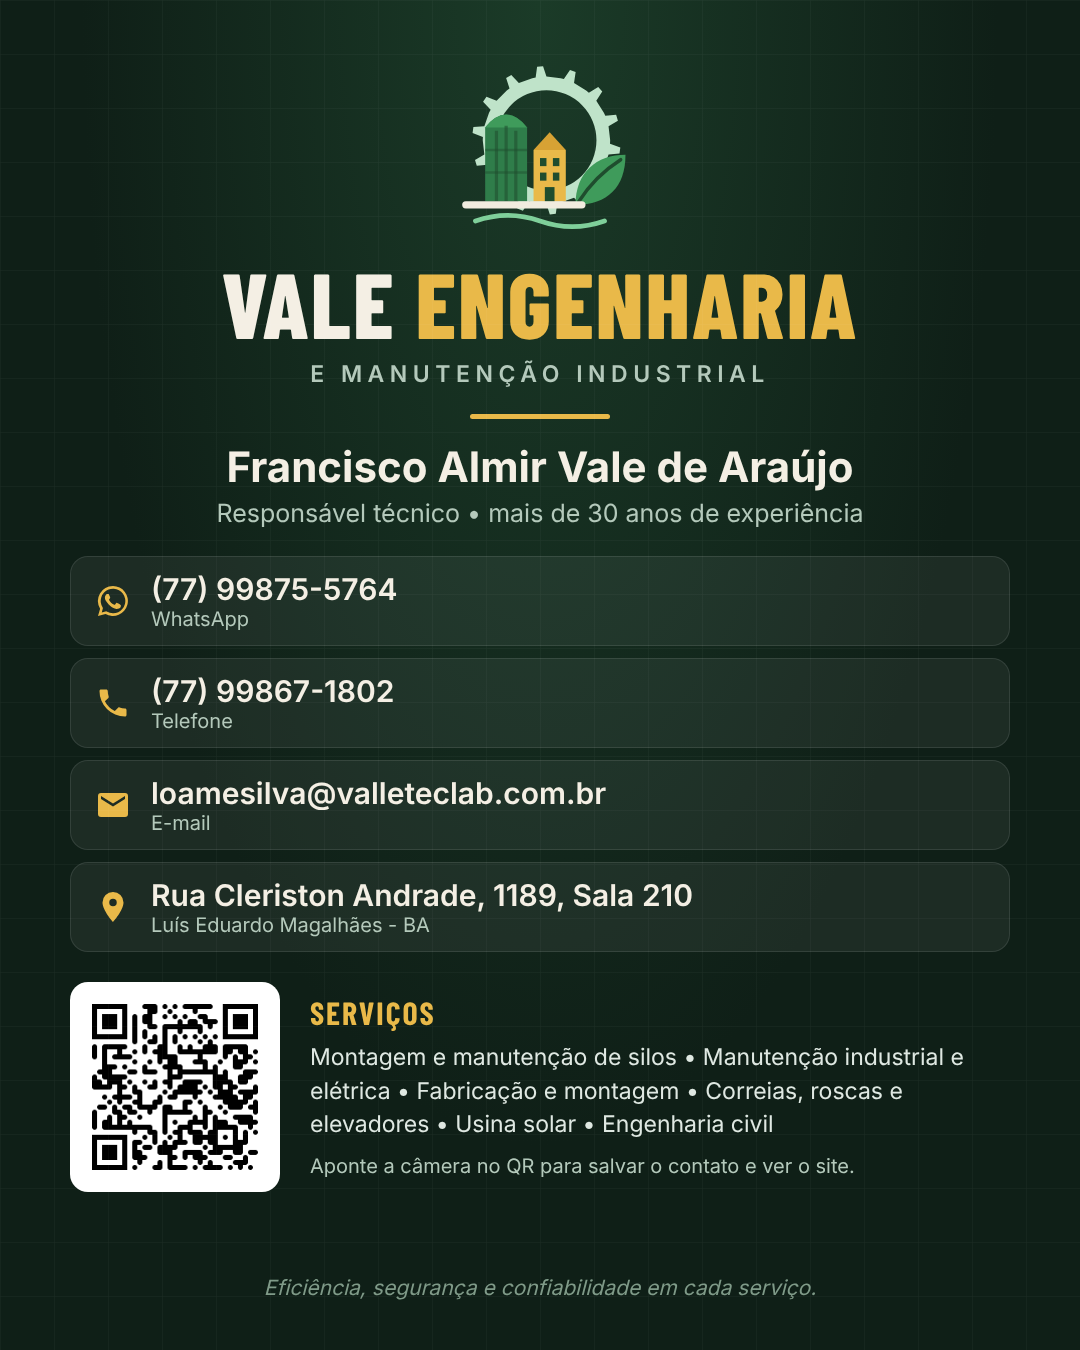
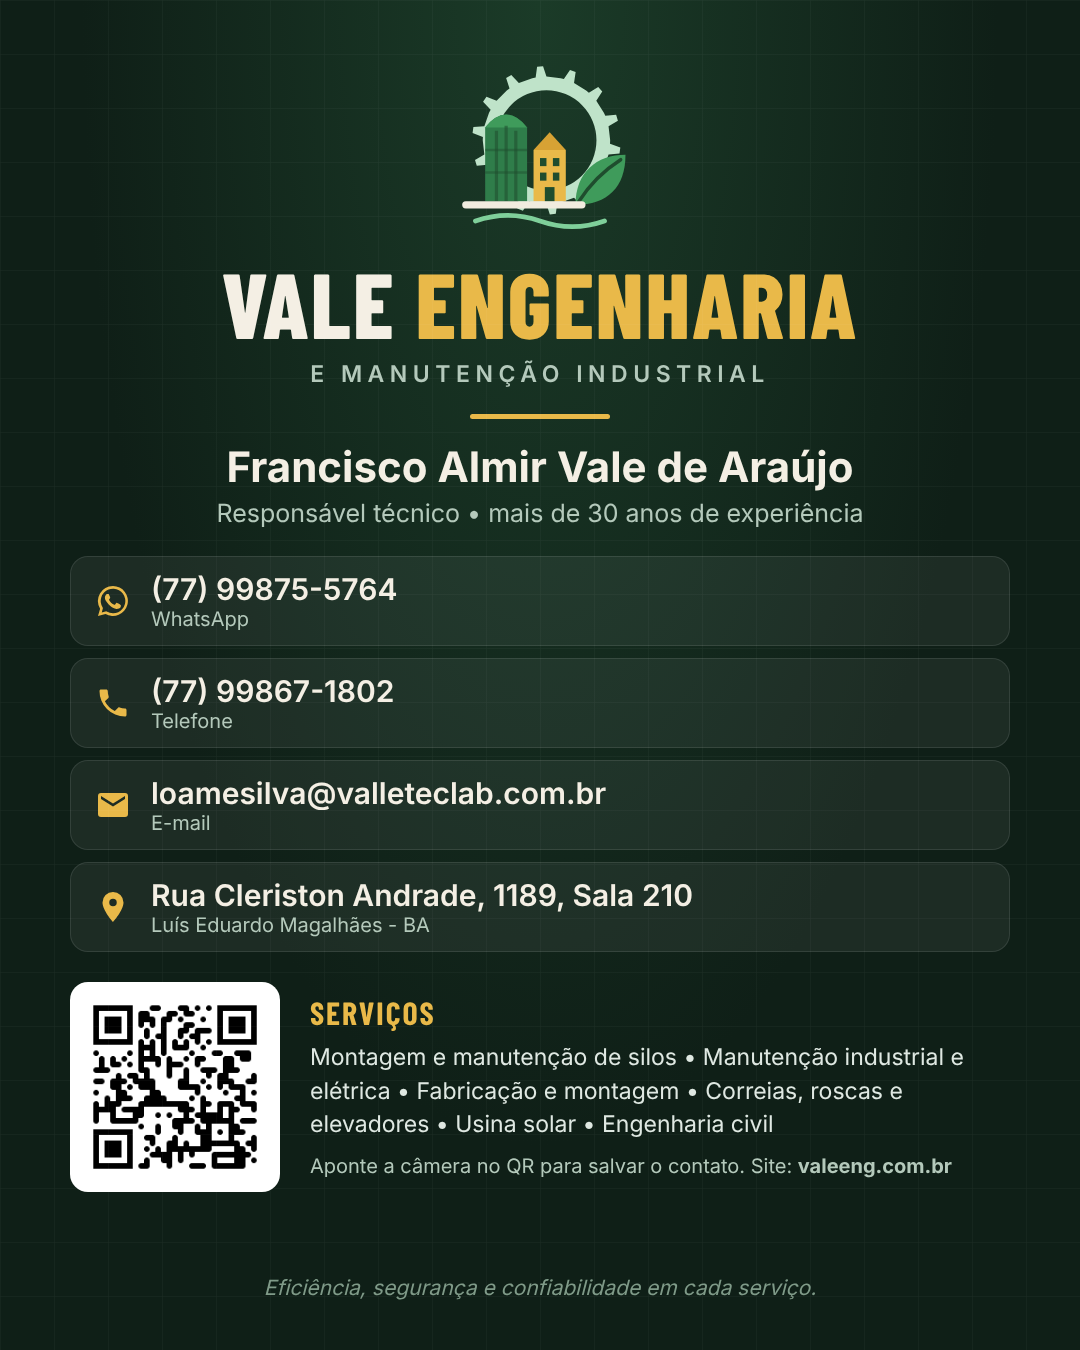
Aponta links, prévia de compartilhamento e QR code para valeeng.com.br
Claude-Session: https://claude.ai/code/session_01L9SrSHLbwCuzMQcZKSVsk7

Changed region(s): [[0.0611, 0.7467, 0.2444, 0.8711], [0.7028, 0.84, 0.8861, 0.8711]]

diff --git a/cartao.html b/cartao.html
@@ -8,8 +8,9 @@
   <meta property="og:title" content="Vale Engenharia | Cartão digital">
   <meta property="og:description" content="Francisco Almir Vale de Araújo. Montagem de silos, manutenção industrial e elétrica e engenharia para o agro. Toque para salvar o contato.">
   <meta property="og:type" content="profile">
-  <meta property="og:image" content="https://site-production-16ce.up.railway.app/assets/brand/cartao-vale-engenharia-og.png">
-  <meta property="og:url" content="https://site-production-16ce.up.railway.app/cartao.html">
+  <meta property="og:image" content="https://valeeng.com.br/assets/brand/cartao-vale-engenharia-og.png">
+  <meta property="og:url" content="https://valeeng.com.br/cartao.html">
+  <link rel="canonical" href="https://valeeng.com.br/cartao.html">
   <meta name="theme-color" content="#1f4d2e">
   <link rel="icon" href="assets/img/favicon.svg" type="image/svg+xml">
   <link rel="icon" href="assets/img/favicon-32.png" sizes="32x32" type="image/png">
@@ -95,7 +96,7 @@
 
     <div class="share">
       <button type="button" id="btnShare">Compartilhar cartão</button>
-      <a href="https://wa.me/?text=Cart%C3%A3o%20digital%20Vale%20Engenharia%20e%20Manuten%C3%A7%C3%A3o%20Industrial%3A%20https%3A%2F%2Fsite-production-16ce.up.railway.app%2Fcartao.html" target="_blank" rel="noopener">Enviar no WhatsApp</a>
+      <a href="https://wa.me/?text=Cart%C3%A3o%20digital%20Vale%20Engenharia%20e%20Manuten%C3%A7%C3%A3o%20Industrial%3A%20https%3A%2F%2Fvaleeng.com.br%2Fcartao.html" target="_blank" rel="noopener">Enviar no WhatsApp</a>
     </div>
     <div class="foot">Eficiência, segurança e confiabilidade em cada serviço.</div>
   </main>

diff --git a/index.html b/index.html
@@ -9,7 +9,9 @@
   <meta property="og:title" content="Vale Engenharia | Montagem de Silos e Manutenção Industrial para o Agro">
   <meta property="og:description" content="Fabricação, montagem e manutenção de silos, elevadores, correias e roscas transportadoras. Usina solar, manutenção elétrica e engenharia civil. Mais de 30 anos de experiência.">
   <meta property="og:type" content="website">
-  <meta property="og:image" content="assets/img/og-image.jpg">
+  <meta property="og:image" content="https://valeeng.com.br/assets/img/og-image.jpg">
+  <meta property="og:url" content="https://valeeng.com.br/">
+  <link rel="canonical" href="https://valeeng.com.br/">
   <link rel="icon" href="assets/img/favicon.svg" type="image/svg+xml">
   <link rel="icon" href="assets/img/favicon-32.png" sizes="32x32" type="image/png">
   <link rel="apple-touch-icon" href="assets/img/favicon-180.png">
